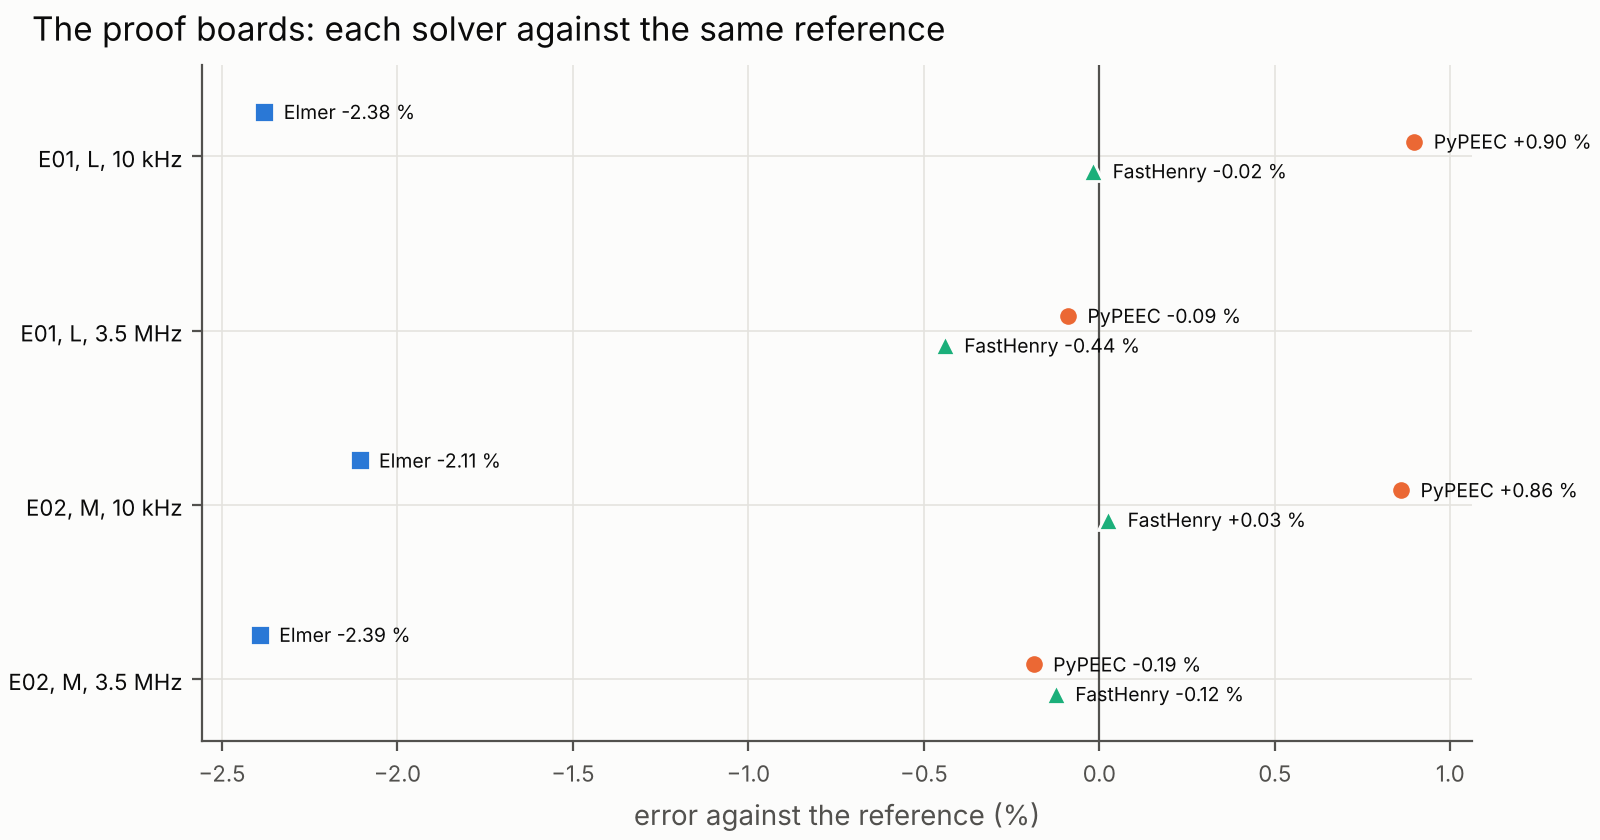
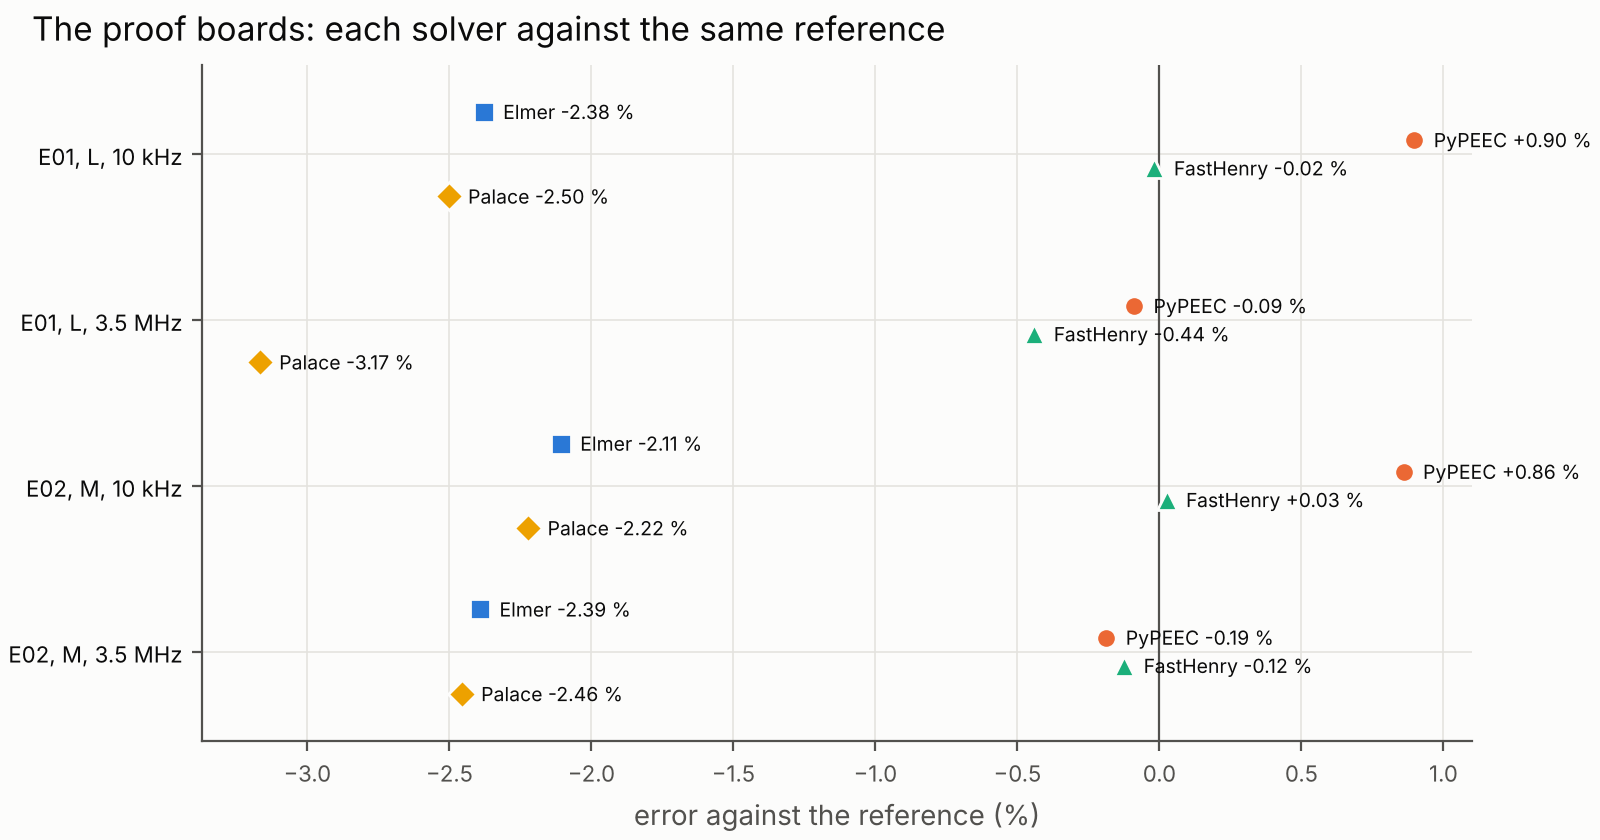
Solvers Comparison: Palace's proof boards E01 and E02
Palace's ladder and its run with the coil boards' air in the proof table
and chart, why its values sit above the open arcs, and its E01 beside
Elmer's in the FEM explanation.

diff --git a/docs/wiki/Solvers-Comparison.md b/docs/wiki/Solvers-Comparison.md
@@ -45,7 +45,8 @@ Each solver sets up `S0d2_1x_OD23_2L_tiny_TX3top_Cut` its own way, from the same
 | Elmer | 55.731 nH (+0.25 %) | — | 23.866 nH (−0.08 %) | — | a finer air mesh, kept by the branch |
 | PyPEEC | 56.089 nH (+0.90 %) | 54.990 nH (−0.09 %) | 24.091 nH (+0.86 %) | 23.841 nH (−0.19 %) | as its branch solves it |
 | FastHenry | 55.580 nH (−0.02 %) | 54.797 nH (−0.44 %) | 23.892 nH (+0.03 %) | 23.856 nH (−0.12 %) | as its branch solves it |
-| Palace | still being solved | | | | |
+| Palace | 54.199 nH (−2.50 %) | 53.295 nH (−3.17 %) | 23.355 nH (−2.22 %) | 23.299 nH (−2.46 %) | as its branch solves it |
+| Palace | 55.857 nH (+0.48 %) | 54.878 nH (−0.29 %) | 24.166 nH (+1.17 %) at 100 kHz | 24.104 nH (+0.91 %) | a finer air mesh, kept by the branch |
 | **Theory** | 55.590 nH | 53.37 to 55.59 nH | 23.886 nH | 23.886 nH | Neumann's integral |
 
 The percentages are against the references the branches share: Neumann's double integral over the open arcs, 55.590 nH for E01 at 10 kHz and 23.886 nH for E02, and for E01 at 3.5 MHz 55.039 nH, the value for a strip of no thickness with its current at the edges. At 3.5 MHz the skin depth equals the copper's thickness, so the true value lies between the surface-current limit, 53.37 nH, and the DC value: the Theory row.
@@ -53,6 +54,7 @@ The percentages are against the references the branches share: Neumann's double 
 - **FastHenry is within a few hundredths of a percent at 10 kHz**, on both boards.
 - **PyPEEC is 0.9 % high at 10 kHz** on its 12.5 µm (E01) and 50 µm (E02) voxels, and close at 3.5 MHz.
 - **Elmer is 2.4 % low at its default mesh** and within 0.3 % once the air is graded finely: the FEM solvers' error is in the air mesh.
+- **Palace is above the open arcs once its air is graded as on the coil boards**: E01 +0.48 % and E02 +1.17 %, against −2.5 % and −2.2 % on its default mesh. Its lumped port is a sheet across each gap that carries the TX's current across it and takes the RX's EMF across it, so its loops are closed, and its L and M should end above the open arcs and near the closed rings (56.622 and 24.400 nH). Its graded E02 is solved at 100 kHz: at 10 kHz GMRES does not converge on that mesh within 15 GB, and on the default mesh the two frequencies agree to 0.002 %.
 
 ## 70.4 S0d2_1x_OD23_2L_tiny_TX3top_Cut: The Signal Over The Air Gap
 
@@ -129,7 +131,7 @@ The PEEC solvers need far less memory, since they mesh no air; Elmer's direct so
 
 ## 70.8 Why They Differ
 
-**FEM against PEEC.** A FEM solver meshes the air and closes it at an outer boundary. On a coarse air mesh it stores too little magnetic energy, so L and M come out low and rise as the mesh is refined; the boundary lowers them a little more. With the rotor away, Palace's L TX is 4.6 % under FastHenry's and Elmer's 6.9 %, both under the high-frequency limit ([70.5](#705-s0d2_1x_od23_2l_tiny_tx3top_cut-the-tx-coil-against-the-hand-values)). Palace grades its air four times as finely as Elmer (a grade of 0.125 against 0.5) and stacks its wedge layers half as thick, and it lands closer. Elmer's E01 shows where the error lies: −2.4 % on its default mesh, +0.25 % once the air is graded finely.
+**FEM against PEEC.** A FEM solver meshes the air and closes it at an outer boundary. On a coarse air mesh it stores too little magnetic energy, so L and M come out low and rise as the mesh is refined; the boundary lowers them a little more. With the rotor away, Palace's L TX is 4.6 % under FastHenry's and Elmer's 6.9 %, both under the high-frequency limit ([70.5](#705-s0d2_1x_od23_2l_tiny_tx3top_cut-the-tx-coil-against-the-hand-values)). Palace grades its air four times as finely as Elmer (a grade of 0.125 against 0.5) and stacks its wedge layers half as thick, and it lands closer. E01 shows where the error lies: Elmer is −2.4 % on its default mesh and +0.25 % once the air is graded finely, Palace −2.5 % and +0.48 %.
 
 **PyPEEC against FastHenry.** Both model only the copper, so the difference is how they cut it up. PyPEEC draws the tracks onto a grid of 50 µm voxels, which turns every arc into a staircase; FastHenry follows each track's centre line with straight filaments, three across the width and one through the thickness. On this board PyPEEC's signal is 2.2 % under FastHenry's and its L TX 0.6 % over; on E01 at 10 kHz PyPEEC is 0.9 % high and FastHenry 0.02 % low.
 
